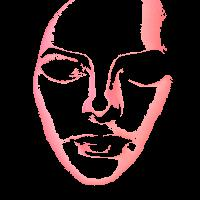
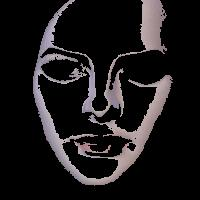
Rough changes

Changed region(s): [[0.15, 0.0, 0.87, 0.93], [0.54, 0.72, 0.57, 0.75]]

diff --git a/controller/break/ImageSplitter.py b/controller/break/ImageSplitter.py
@@ -30,7 +30,7 @@ class iSplitter:
 
     def fromArray(self, arr):
         self.ImgArr = arr
-        self.ContainedImageArray = arr
+        self.ContainedImage = Image.fromarray(arr)
         self.Width = arr.shape[1]  # these are whole, counting from 1->tot, not 0
         self.Height = arr.shape[0] # . . . . . . . .
         self.W = arr.shape[1]
@@ -75,10 +75,10 @@ class iSplitter:
         if max != False and len(group) < max: return False
         img = Image.new("RGB", (self.Width, self.Height), "black")
         imgarr = np.array(img)
+        contained = np.array(self.ContainedImage)
         for xy in group:
             x, y = xy # the x/y coords in self.Cache
-            colorcache = self.ContainedImageArray[y][x]
-            # print(colorcache)
+            colorcache = contained[y][x]
             imgarr[y][x] = colorcache
         img = Image.fromarray(imgarr)
         return img
@@ -98,8 +98,7 @@ class iSplitter:
 
 
     def group(self):
-        xr, yr = random.choice(self.LocationCache).split(":")
-        xr, yr = int(xr), int(yr)
+        xr, yr = map(int, random.choice(self.LocationCache).split(":"))
         self.CurrentGroup = 0
         self.Groups.append([]) #store
 
@@ -107,11 +106,10 @@ class iSplitter:
         pixel = self.Cache[yr][xr]
         r,g,b = pixel
 
-        top_diff    = 1.2             # 20% over
+        top_diff    = 1.45            # 20% over
         bottom_diff = 2.00 - top_diff # 20% under
 
-        lastAm = len(self.LocationCache)
-        sameAmountFor = 0
+        # lastAm = len(self.LocationCache)
         iters = 0
 
         # TODO: re-write to only use the while loop, a much faster use
@@ -124,7 +122,6 @@ class iSplitter:
                 toExpand = ["{0}:{1}".format(xr, yr)]
                 pixel = self.Cache[yr][xr]
                 r,g,b = pixel
-                sameAmountFor = 0
 
                 self.CurrentGroup += 1
                 self.Groups.append([]) #store
@@ -133,26 +130,28 @@ class iSplitter:
             # expanding = toExpand[0]
             # del toExpand[0]
             expanding = toExpand.pop(0)
-            sameAmountFor = sameAmountFor + 1 if len(self.LocationCache) == lastAm else 0
-            lastAm = len(self.LocationCache)
+            # sameAmountFor = sameAmountFor + 1 if len(self.LocationCache) == lastAm else 0
+            # lastAm = len(self.LocationCache)
 
             x, y = [int(x) for x in expanding.split(":")]
             if self.RemoveFromLocationCacheAndSave(x, y) == False: continue
 
             Movements = [[x,y-1],[x,y+1],[x-1,y],[x+1,y]] #udlr
+            # removing the over-wide areas as well as under
             Movements = filter(lambda v: False if (v[0]<0 or v[0]>=self.W) or (v[1]<0 or v[1]>=self.H) else True, Movements)
             # print(Movements)
             for xy in Movements:
                 xmove, ymove = xy
 
-                try: nr,ng,nb = self.Cache[ymove][xmove] # catching indexing errors
-                except IndexError: continue
+                try:                 nr,ng,nb = self.Cache[ymove][xmove] # catching indexing errors
+                except IndexError:   continue
 
                 # print(xy)
                 if self.Cache[ymove][xmove][0] == -1 or ( # IGNORE
                     (nr >= r*top_diff)      or    (ng >= g*top_diff)      or    (nb >= b*top_diff)      or
                     (nr <= r*bottom_diff)   or    (ng <= g*bottom_diff)   or    (nb <= b*bottom_diff)
                 ):
+                    # self.Cache[ymove][xmove][0] = -1
                     continue
                 else:
                     toExpand.append("{0}:{1}".format(xmove, ymove))
